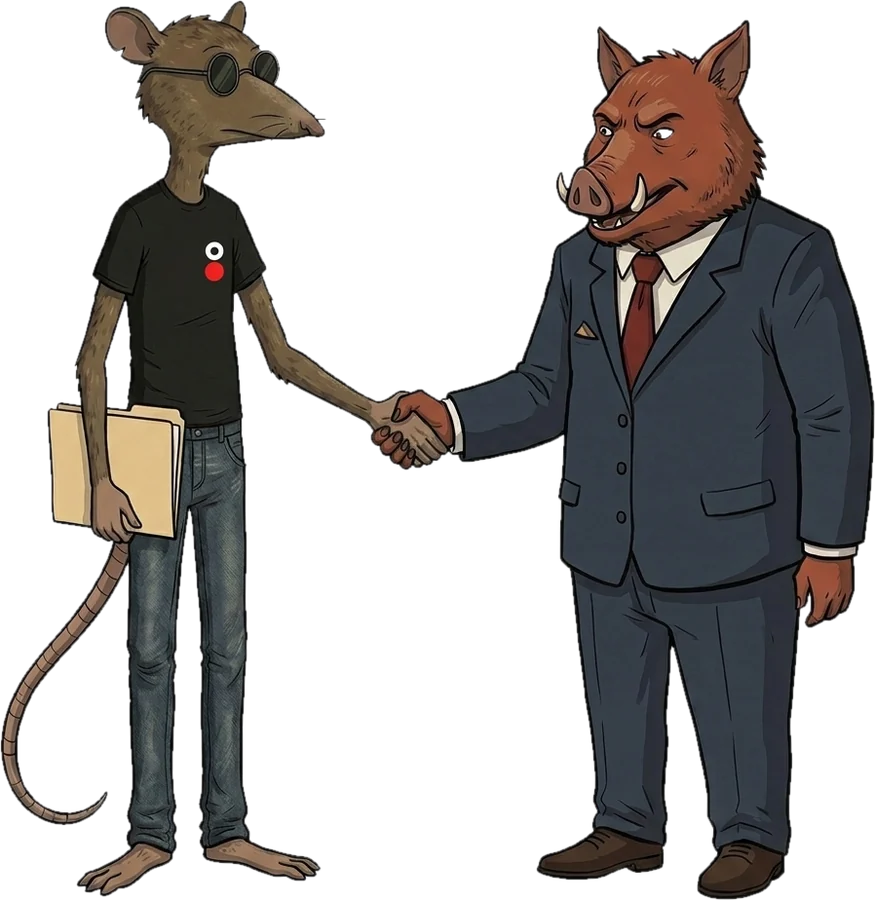
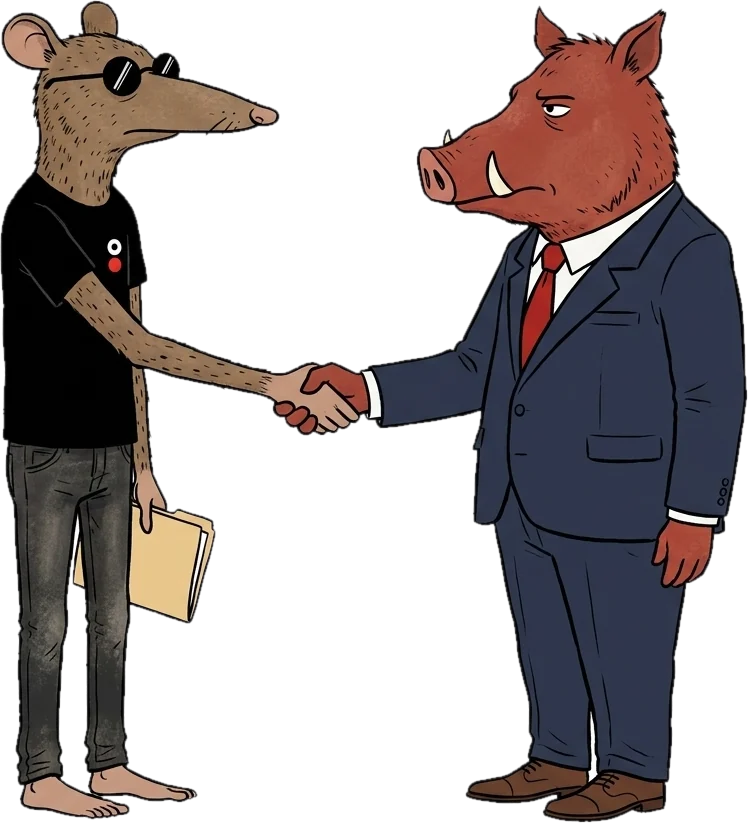
Revisión en todos los dispositivos: sin superposiciones (320–1920 px), Espid señala el botón, jabalí con megáfono, apretón de manos derecha con derecha, fondo rojo sin blend

diff --git a/index.html b/index.html
@@ -93,7 +93,7 @@ section{position:relative}
 .wa-flot:hover::after{opacity:1;transform:none}
 
 /* ---------- 1. Portada ---------- */
-.hero{background:url(assets/brand/papel.jpg) 0 0/720px,var(--rojo);background-blend-mode:multiply;color:var(--crema);padding:110px 0 0;overflow:hidden}
+.hero{background-color:var(--rojo);background-image:url(assets/brand/rojo-papel.jpg);background-size:720px;color:var(--crema);padding:110px 0 0;overflow:hidden}
 .hero .kicker{opacity:.85}
 /* Titular en recortes tipo periódico */
 .titular{position:relative;display:grid;justify-items:start;margin:26px 0 0;max-width:820px;font-weight:400}
@@ -106,24 +106,24 @@ section{position:relative}
   linear-gradient(#F3EEE4,#E9E2D5);
   color:var(--negro);padding:.34em .32em .2em;clip-path:polygon(0.0% 2.3%,2.8% 1.1%,5.6% 4.6%,8.3% 0.5%,11.1% 3.8%,13.9% 2.6%,16.7% 0.4%,19.4% 3.6%,22.2% 0.3%,25.0% 3.0%,27.8% 0.5%,30.6% 0.6%,33.3% 3.0%,36.1% 5.8%,38.9% 0.9%,41.7% 1.6%,44.4% 4.4%,47.2% 6.6%,50.0% 4.0%,52.8% 2.8%,55.6% 6.8%,58.3% 0.3%,61.1% 6.0%,63.9% 2.0%,66.7% 1.0%,69.4% 0.8%,72.2% 2.2%,75.0% 5.7%,77.8% 1.3%,80.6% 4.1%,83.3% 4.5%,86.1% 2.6%,88.9% 3.8%,91.7% 0.4%,94.4% 0.4%,97.2% 1.4%,100.0% 4.8%,100.0% 97.0%,97.2% 97.8%,94.4% 95.9%,91.7% 96.8%,88.9% 97.9%,86.1% 94.4%,83.3% 95.1%,80.6% 98.3%,77.8% 96.0%,75.0% 96.3%,72.2% 93.9%,69.4% 94.9%,66.7% 98.0%,63.9% 93.1%,61.1% 99.2%,58.3% 97.1%,55.6% 94.7%,52.8% 98.9%,50.0% 96.6%,47.2% 99.7%,44.4% 95.3%,41.7% 94.6%,38.9% 96.0%,36.1% 93.9%,33.3% 97.8%,30.6% 95.1%,27.8% 95.8%,25.0% 95.9%,22.2% 96.8%,19.4% 94.1%,16.7% 93.4%,13.9% 96.7%,11.1% 95.4%,8.3% 99.6%,5.6% 95.1%,2.8% 95.5%,0.0% 93.0%)}
 .t-dep small{display:flex;justify-content:space-between;gap:10px;font-family:var(--clash);font-weight:600;font-size:clamp(9px,1.2vw,12px);letter-spacing:.16em;text-transform:uppercase;border-bottom:2px solid var(--negro);padding:0 .2em 4px;margin-bottom:.12em;opacity:.8}
-.t-dep b{display:block;font-family:var(--epic);font-weight:800;text-transform:uppercase;font-size:clamp(46px,12.4vw,134px);line-height:.86;letter-spacing:-.01em}
+.t-dep b{display:block;font-family:var(--epic);font-weight:800;text-transform:uppercase;font-size:clamp(34px,12.2vw,134px);line-height:.86;letter-spacing:-.01em}
 .titular>.t-a{--rot:10deg;text-align:center;z-index:4;margin:6px 0 -12px 40%;width:var(--s);height:var(--s);--s:clamp(54px,8vw,84px);border-radius:50%;background:var(--crema);box-shadow:inset 0 0 0 3px var(--negro);display:flex;align-items:center;justify-content:center;overflow:hidden}
 .t-a b{display:block;font-family:var(--clash);font-weight:700;color:var(--rojo);font-size:calc(var(--s)*.56);line-height:1;transform:translateY(-.08em)}
 .t-of{--rot:1.8deg;z-index:2;margin-left:clamp(18px,6vw,90px)}
-.t-of>i{display:block;font-style:normal;background:var(--negro);color:var(--crema);font-family:var(--clash);font-weight:700;font-size:clamp(46px,12vw,128px);line-height:1;letter-spacing:-.05em;padding:.04em .28em .16em;clip-path:polygon(0 4%,99% 0,100% 96%,1.5% 100%)}
+.t-of>i{display:block;font-style:normal;background:var(--negro);color:var(--crema);font-family:var(--clash);font-weight:700;font-size:clamp(40px,12vw,128px);line-height:1;letter-spacing:-.05em;padding:.04em .28em .16em;clip-path:polygon(0 4%,99% 0,100% 96%,1.5% 100%)}
 .t-com{--rot:-1.6deg;margin:-6px 0 0 -4px}
-.t-com>i{display:block;font-style:normal;background:var(--crema);color:var(--rojo);font-family:var(--epic);font-weight:800;text-transform:uppercase;font-size:clamp(40px,11vw,120px);line-height:.9;padding:.14em .26em .06em;clip-path:polygon(1% 0,100% 6%,98.5% 100%,0 93%)}
+.t-com>i{display:block;font-style:normal;background:var(--crema);color:var(--rojo);font-family:var(--epic);font-weight:800;text-transform:uppercase;font-size:clamp(30px,10.4vw,120px);line-height:.9;padding:.14em .26em .06em;clip-path:polygon(1% 0,100% 6%,98.5% 100%,0 93%)}
 .t-com::after{z-index:2;content:"";position:absolute;right:-14px;top:-12px;width:clamp(56px,9vw,96px);height:22px;background:rgba(255,248,230,.6);transform:rotate(28deg);box-shadow:0 1px 2px rgba(0,0,0,.08)}
-.caja-wrap{position:relative}
+.caja-wrap{position:relative;--ew:150px;--er:6px}
 @keyframes sello{0%{opacity:0;transform:scale(1.5) rotate(-9deg)}100%{opacity:1;transform:scale(1) rotate(-9deg)}}
-.hero .sello{position:absolute;right:-14px;bottom:-34px;z-index:5;transform:rotate(-9deg);animation:sello .55s cubic-bezier(.2,1.6,.4,1) 1s both;font-size:clamp(14px,1.6vw,18px);--rot:-9deg;z-index:2}
+.hero .sello{position:absolute;left:-14px;top:-46px;z-index:5;transform:rotate(-9deg);animation:sello .55s cubic-bezier(.2,1.6,.4,1) 1s both;font-size:clamp(14px,1.6vw,18px);--rot:-9deg;z-index:2}
 .hero-pie{position:relative;margin-top:196px;padding-bottom:70px;max-width:620px}
 .hero-caja{position:relative;background:var(--crema);color:var(--negro);padding:30px 26px 28px;max-width:620px;clip-path:polygon(0 3%,99% 0,100% 97%,1% 100%)}
 .hero-caja p{font-size:clamp(18px,2.2vw,22px);line-height:1.35;letter-spacing:-.02em}
 .hero-caja p b{color:var(--rojo)}
-.hero-caja .reserva{float:right;width:112px;height:100px;margin:-30px -26px 0 0}
+.hero-caja .reserva{float:right;width:calc(var(--ew)*.70 + var(--er) - 18px);height:calc(var(--ew)*.78 - 22px)}
 .hero-caja .acciones{display:flex;flex-wrap:wrap;gap:12px;margin-top:22px}
-.hero .pj.espid{width:150px;right:6px;top:-172px;z-index:3}
+.hero .pj.espid{width:var(--ew);right:var(--er);top:calc(var(--ew)*-1.169);z-index:3}
 .hero .flechas{position:absolute;right:var(--gutter);bottom:30px;font-family:var(--epic);font-size:34px;letter-spacing:-.15em;opacity:.9;animation:bote 1.6s infinite}
 @keyframes bote{50%{transform:translateY(8px)}}
 .flot{animation:flot 4s ease-in-out infinite}
@@ -132,14 +132,14 @@ section{position:relative}
 /* ---------- 2. Traducción ---------- */
 .intro{padding:90px 0 80px}
 .intro h2{font-size:clamp(44px,8vw,96px);color:var(--rojo)}
-.intro .elipse{font-size:clamp(26px,4.4vw,52px);margin:10px 0 0 -6px;--rot:-4deg}
+.intro .elipse{font-size:clamp(26px,4.4vw,52px);margin:22px 0 0 -6px;--rot:-4deg}
 .intro .cols{display:grid;gap:28px;margin-top:44px}
-.escena{position:relative;height:430px;margin-top:20px}
-.escena .pj.oso{width:min(46%,270px);left:0;bottom:0}
-.escena .pj.jab{width:min(36%,210px);right:0;bottom:0}
-.escena .globo{position:absolute}
-.escena .g1{left:0;top:150px;max-width:180px}
-.escena .g2{right:0;top:40px;max-width:200px}
+.escena{position:relative;display:flex;justify-content:space-between;align-items:flex-end;gap:10px;margin-top:20px;padding-bottom:3px}
+.actor{display:flex;flex-direction:column;align-items:center;gap:24px;min-width:0}
+.actor img{width:auto;max-width:100%;filter:var(--pegado)}
+.actor.a1 img{height:clamp(150px,34vw,270px)}
+.actor.a2 img{height:clamp(210px,48vw,380px)}
+.actor .globo{max-width:200px}
 .escena .suelo{position:absolute;left:0;right:0;bottom:0;height:3px;background:var(--tinta);border-radius:3px;opacity:.85}
 .cita{font-family:var(--epic);font-weight:800;text-transform:uppercase;font-size:clamp(28px,4vw,44px);line-height:.98;color:var(--negro)}
 .cita em{font-style:normal;color:var(--rojo)}
@@ -178,9 +178,15 @@ section{position:relative}
 .sino{margin-top:34px;max-width:700px}
 .sino .box{font-family:var(--epic);font-weight:800;text-transform:uppercase;font-size:clamp(22px,3.2vw,34px);line-height:1}
 .sino p{margin-top:14px}
-.problema .zona{position:relative;height:300px;margin-top:20px}
-.problema .pj.oso-duerme{width:min(64%,320px);right:0;bottom:0}
-.zzz{position:absolute;right:16px;bottom:min(62vw,270px);font-family:var(--epic);color:var(--rojo);font-size:30px}
+.grito-escena{position:relative;display:flex;flex-wrap:wrap;justify-content:space-between;align-items:flex-end;gap:18px 10px;margin-top:56px}
+.grito{flex-basis:100%;order:-1;display:flex;justify-content:center}
+.grito .box{position:relative;font-family:var(--epic);font-weight:800;text-transform:uppercase;font-size:clamp(22px,3.2vw,40px);line-height:1;text-align:center}
+.grito .ondas{font-family:var(--epic);color:var(--rojo);font-size:clamp(22px,3vw,36px);letter-spacing:-.1em;margin-right:6px;align-self:center;animation:onda 1s steps(2) infinite}
+@keyframes onda{50%{opacity:.25}}
+.g-boar img{height:clamp(190px,36vw,400px);width:auto;max-width:none;filter:var(--pegado)}
+.g-sloth{position:relative}
+.g-sloth img{height:clamp(130px,25vw,290px);width:auto;max-width:none;filter:var(--pegado)}
+.zzz{position:absolute;left:58%;top:-46px;z-index:2;font-family:var(--epic);color:var(--rojo);font-size:30px}
 .zzz span{display:inline-block;animation:zz 2.4s infinite ease-in-out;opacity:0}
 .zzz span:nth-child(2){animation-delay:.6s;font-size:.8em}.zzz span:nth-child(3){animation-delay:1.2s;font-size:.6em}
 @keyframes zz{0%{opacity:0;transform:translate(0,10px)}30%{opacity:1}100%{opacity:0;transform:translate(-14px,-26px)}}
@@ -212,14 +218,15 @@ section{position:relative}
 .libro{padding:100px 0 100px}
 .libro h2{font-size:clamp(40px,7vw,84px)}
 .libro .grid{display:grid;gap:30px;margin-top:30px;align-items:end}
-.libro .ilus{position:relative;height:380px}
-.libro .pj.presenta{width:min(70%,280px);left:0;bottom:0}
+.libro .ilus{position:relative}
+.libro .pj.presenta{position:relative}
+.libro .pj.presenta img{height:clamp(260px,62vw,440px);width:auto}
 .honesto{background:var(--negro);color:var(--crema);padding:30px 26px;clip-path:polygon(0 0,99% 2%,100% 100%,1.5% 98%);font-size:clamp(19px,2.3vw,23px);line-height:1.42;letter-spacing:-.02em}
 .honesto b{color:var(--rojo-vivo)}
 .libro .premisa{margin-top:22px;max-width:620px}
 
 /* ---------- 7. Pedir vs negociar ---------- */
-.versus{padding:90px 0 100px;background:url(assets/brand/papel.jpg) 0 0/720px,var(--rojo);background-blend-mode:multiply;color:var(--crema)}
+.versus{padding:90px 0 100px;background-color:var(--rojo);background-image:url(assets/brand/rojo-papel.jpg);background-size:720px;color:var(--crema)}
 .versus h2{font-size:clamp(46px,9vw,112px)}
 .versus .lead{margin-top:16px;max-width:620px}
 .comp{position:relative;margin-top:40px;height:min(120vw,560px);overflow:hidden;clip-path:polygon(0 1%,100% 0,99.5% 100%,.5% 99%);user-select:none;touch-action:pan-y;--p:50%}
@@ -232,10 +239,10 @@ section{position:relative}
 .lado.negociar{align-items:flex-end;text-align:right}
 .lado.negociar img{right:-2%}
 .lado.pedir .epic{color:var(--negro)}
-.lado.pedir img{width:min(62%,360px)}
+.lado.pedir img{height:62%;width:auto;max-width:none}
 .lado.negociar{background:var(--negro);color:var(--crema);clip-path:inset(0 0 0 var(--p))}
 .lado.negociar .epic{color:var(--rojo-vivo)}
-.lado.negociar img{width:min(72%,440px)}
+.lado.negociar img{height:60%;width:auto;max-width:none}
 .manija{position:absolute;top:0;bottom:0;left:var(--p);width:4px;margin-left:-2px;background:var(--rojo);z-index:3}
 .manija span{position:absolute;top:50%;left:50%;width:58px;height:58px;margin:-29px 0 0 -29px;border-radius:50%;background:var(--rojo);color:var(--crema);display:grid;place-items:center;font-family:var(--epic);font-size:22px;letter-spacing:-.1em;box-shadow:0 4px 0 rgba(0,0,0,.25)}
 .comp input{position:absolute;inset:0;width:100%;height:100%;opacity:0;cursor:ew-resize;z-index:4;margin:0}
@@ -275,21 +282,22 @@ section{position:relative}
 .capas h2{font-size:clamp(40px,7vw,84px)}
 .capas .lead{max-width:640px;margin-top:16px}
 .capas .tablero{display:grid;gap:26px;margin-top:40px;align-items:center}
+.capas .tablero>*{min-width:0}
 .diana{position:relative;width:min(88vw,460px);aspect-ratio:1;margin:0 auto}
 .diana svg{width:100%;height:100%;overflow:visible}
 .diana circle{cursor:pointer;transition:fill .3s,transform .4s cubic-bezier(.2,1.6,.4,1);transform-origin:50% 50%;transform-box:view-box}
 .diana text{font-family:var(--clash);font-weight:600;font-size:13px;letter-spacing:.08em;pointer-events:none;text-transform:uppercase}
-.capas .pj.lupa{width:min(42vw,230px);left:-8%;bottom:-10%;z-index:2}
+.capas .pj.lupa{width:min(30vw,180px);left:-4%;bottom:0;z-index:2}
 .opciones{display:grid;grid-template-columns:1fr 1fr;gap:8px}
-.op{font-family:var(--epic);font-weight:800;text-transform:uppercase;font-size:clamp(16px,2.2vw,22px);padding:14px 12px 11px;background:var(--papel);color:var(--negro);border:2px solid var(--negro);cursor:pointer;text-align:left;transition:.2s}
+.op{font-family:var(--epic);font-weight:800;text-transform:uppercase;font-size:clamp(13px,2.2vw,22px);padding:13px 10px 10px;min-width:0;overflow-wrap:anywhere;background:var(--papel);color:var(--negro);border:2px solid var(--negro);cursor:pointer;text-align:left;transition:.2s}
 .op.on{background:var(--rojo);color:var(--crema);border-color:var(--rojo)}
 .capa-txt{margin-top:16px;background:var(--negro);color:var(--crema);padding:22px 22px;min-height:150px;clip-path:polygon(0 2%,100% 0,99.5% 100%,.5% 98%)}
 .capa-txt .epic{font-size:28px;color:var(--rojo-vivo)}
 .capa-txt p{margin-top:8px;font-size:18px;line-height:1.4;letter-spacing:-.02em}
 
 /* ---------- 11. Pregunta incómoda ---------- */
-.pregunta{padding:250px 0 110px;overflow:hidden;border-top:10px solid var(--negro)}
-.pregunta .pj.colgado{width:min(46vw,250px);right:12%;top:-22px;transform-origin:50% 0;animation:mece 3.6s ease-in-out infinite}
+.pregunta{--colg:190px;padding:calc(var(--colg)*1.37 + 20px) 0 110px;overflow:hidden;border-top:10px solid var(--negro)}
+.pregunta .pj.colgado{width:var(--colg);right:10%;top:-22px;transform-origin:50% 0;animation:mece 3.6s ease-in-out infinite}
 @keyframes mece{0%,100%{transform:rotate(3deg)}50%{transform:rotate(-3deg)}}
 .pregunta .barra{position:absolute;top:0;left:0;right:0;height:10px;background:var(--negro)}
 .pregunta .kicker{color:var(--rojo-vivo)}
@@ -323,10 +331,13 @@ section{position:relative}
 .ruta li::before{content:counter(r);min-width:22px;font-family:var(--epic);font-size:34px;color:var(--rojo-vivo);line-height:1}
 .ruta b{display:block;font-family:var(--epic);font-weight:800;text-transform:uppercase;font-size:22px;line-height:1;color:var(--crema)}
 .ruta span{font-size:15px;opacity:.7}
-.cta-zona{position:relative;margin-top:50px;padding:0 0 260px}
-.cta-zona .btn{font-size:clamp(20px,3vw,28px);padding:22px 28px 19px}
+.cta-zona{--ph:210px;position:relative;margin-top:44px;padding-bottom:calc(var(--ph)*.478 - 6px)}
+.cta-btn{position:relative;display:inline-block;max-width:calc(100% - var(--ph)*.5 - 14px)}
+.cta-zona .apunta{position:absolute;left:calc(100% + 6px);top:calc(50% - var(--ph)*.522);height:var(--ph);pointer-events:none}
+.cta-zona .apunta img{height:100%;width:auto;max-width:none;transform:scaleX(-1);filter:var(--pegado)}
+.cta-zona .sub{max-width:calc(100% - var(--ph)*.5 - 14px)}
+.cta-zona .btn{font-size:clamp(18px,3vw,28px);padding:20px 22px 17px;max-width:100%;line-height:1.05}
 .cta-zona .sub{margin-top:12px;font-size:15px;opacity:.6}
-.cierre .pj.apunta{width:min(46vw,250px);right:var(--gutter);bottom:0}
 
 footer{background:var(--rojo);color:var(--crema);padding:40px var(--gutter) 90px;text-align:center}
 footer img{height:34px;width:auto;margin:0 auto}
@@ -343,35 +354,33 @@ footer small{display:block;margin-top:14px;font-size:12px;opacity:.7}
   .t-of>i{font-size:clamp(50px,5.4vw,80px)}
   .t-com>i{font-size:clamp(44px,4.8vw,70px)}
   .hero-pie{grid-column:2;margin-top:0;padding-top:250px;padding-bottom:70px}
-  .hero .pj.espid{width:190px;top:-218px;right:22px}
-  .hero-caja .reserva{width:136px;height:128px}
+  .caja-wrap{--ew:190px;--er:22px}
   .intro .cols{grid-template-columns:1.05fr 1fr;align-items:end;gap:50px}
-  .escena{height:520px;margin:0}
+  .escena{margin:0}
   .traductor{padding:34px 34px 30px}
   .tr-fila{grid-template-columns:1fr 1fr;gap:28px}
   .tr-b{max-height:none;opacity:.12}
   .traductor.on .tr-b{opacity:1}
   .puntos{grid-template-columns:repeat(4,1fr);max-width:none;width:62%}
-  .mundo .pj.oso-tirado{left:auto;right:var(--gutter);bottom:120px;width:420px}
-  .problema .wrap{display:grid;grid-template-columns:1.2fr .8fr;gap:30px}
-  .problema .zona{height:auto;min-height:420px}
-  .problema .pj.oso-duerme{width:340px}
+  .mundo .pj.oso-tirado{left:auto;right:var(--gutter);bottom:150px;width:400px}
+  .mundo .nota{bottom:80px}
+  .grito-escena{flex-wrap:nowrap}
+  .grito{flex:1;flex-basis:auto;order:0;align-self:flex-start;margin-top:3%;justify-content:flex-start}
   .invierten{padding-bottom:110px}
   .invierten .pj.jab{width:280px}
   .invierten .globo{right:calc(max(var(--gutter),calc(50% - 520px)) + 250px);bottom:560px}
   .libro .grid{grid-template-columns:.8fr 1.2fr}
-  .libro .ilus{height:460px}
+  .libro .ilus{align-self:end}
   .comp{height:560px}
-  .lado.pedir img{width:330px;left:4%}
-  .lado.negociar img{width:420px;right:3%}
+  .lado.pedir img{left:4%}
+  .lado.negociar img{right:4%}
   .cap .num{width:460px}
   .cap .num .epic{font-size:260px}
   .cap .pj.sube{width:200px;left:-17%}
   .juego{padding:30px 30px 30px}
   .clones{grid-template-columns:repeat(8,1fr)}
   .capas .tablero{grid-template-columns:1fr 1fr;gap:50px}
-  .cta-zona{padding-bottom:330px}
-  .cierre .pj.apunta{width:300px;right:max(var(--gutter),calc(50% - 480px))}
+  .cta-zona{--ph:340px}
 }
 @media (max-width:420px){
   body{font-size:17px}
@@ -398,7 +407,7 @@ footer small{display:block;margin-top:14px;font-size:12px;opacity:.7}
       <span class="t-com pop d4" aria-hidden="true"><i>Comercial</i></span>
     </h1>
     <div class="hero-pie"><div class="caja-wrap">
-      <div class="pj espid"><img class="flot" src="assets/img/espid_sit.webp" alt="" width="462" height="900"></div>
+      <div class="pj espid"><img class="flot" src="assets/img/espid_sit.webp?v=3" alt="" width="462" height="900"></div>
       <div class="hero-caja">
         <div class="reserva" aria-hidden="true"></div>
         <p>Guía de transformación para convertir un <b>deportista</b> en un <b>proyecto deportivo atractivo</b> para marcas auspiciantes.</p>
@@ -425,10 +434,8 @@ footer small{display:block;margin-top:14px;font-size:12px;opacity:.7}
         <p class="cita rv" style="margin-top:28px">Esta creencia no nace de la mala intención.<br><em>Nace de una visión incompleta.</em></p>
       </div>
       <div class="escena" aria-hidden="true">
-        <div class="globo crema g1 pop d1" style="--rot:-3deg">¡Gané el oro!<br><b style="color:var(--rojo)">¿Me auspicias?</b></div>
-        <div class="globo g2 der pop d3" style="--rot:3deg">Ajá…<br>¿Y eso qué hace por <b>mi marca?</b></div>
-        <div class="pj oso rv d1"><img src="assets/img/sloth_medal.webp" alt="" width="813" height="900"></div>
-        <div class="pj jab rv d2"><img src="assets/img/boar_confused.webp" alt="" width="431" height="900"></div>
+        <div class="actor a1"><div class="globo crema pop d1" style="--rot:-3deg">¡Gané el oro!<br><b style="color:var(--rojo)">¿Me auspicias?</b></div><img class="rv d1" src="assets/img/sloth_medal.webp?v=3" alt="" width="813" height="900"></div>
+        <div class="actor a2"><div class="globo der pop d3" style="--rot:3deg">Ajá…<br>¿Y eso qué hace por <b>mi marca?</b></div><img class="rv d2" src="assets/img/boar_confused.webp?v=3" alt="" width="431" height="900"></div>
         <div class="suelo"></div>
       </div>
     </div>
@@ -462,7 +469,7 @@ footer small{display:block;margin-top:14px;font-size:12px;opacity:.7}
       <div class="punto tu pop d4">Tú</div>
     </div>
   </div>
-  <div class="pj oso-tirado rv d3"><img src="assets/img/sloth_lying.webp" alt="" width="900" height="182"></div>
+  <div class="pj oso-tirado rv d3"><img src="assets/img/sloth_lying.webp?v=3" alt="" width="900" height="182"></div>
   <div class="nota">El talento, esperando que la oportunidad llegue sola.</div>
 </section>
 
@@ -482,9 +489,10 @@ footer small{display:block;margin-top:14px;font-size:12px;opacity:.7}
         <p class="lead">a un lenguaje que una empresa pueda <b>entender, evaluar y justificar internamente.</b></p>
       </div>
     </div>
-    <div class="zona" aria-hidden="true">
-      <div class="zzz"><span>Z</span><span>Z</span><span>Z</span></div>
-      <div class="pj oso-duerme rv"><img src="assets/img/sloth_sleep.webp" alt="" width="862" height="799"></div>
+    <div class="grito-escena" aria-hidden="true">
+      <div class="g-boar rv"><img src="assets/img/boar_megafono.webp?v=3" alt="" width="587" height="900"></div>
+      <div class="grito pop d2" style="--rot:-3deg"><span class="ondas">)))</span><span class="box">¡Patrocinio<br>disponible!</span></div>
+      <div class="g-sloth rv d1"><div class="zzz"><span>Z</span><span>Z</span><span>Z</span></div><img src="assets/img/sloth_sleep.webp?v=3" alt="" width="862" height="799"></div>
     </div>
   </div>
 </section>
@@ -511,7 +519,7 @@ footer small{display:block;margin-top:14px;font-size:12px;opacity:.7}
     </div>
   </div>
   <div class="globo der pop d2" style="--rot:-3deg">A ver…<br><b>convénceme.</b></div>
-  <div class="pj jab rv d3"><img src="assets/img/boar_crossed.webp" alt="" width="376" height="900"></div>
+  <div class="pj jab rv d3"><img src="assets/img/boar_crossed.webp?v=3" alt="" width="376" height="900"></div>
 </section>
 
 <!-- 6. DE QUÉ SE TRATA -->
@@ -522,7 +530,7 @@ footer small{display:block;margin-top:14px;font-size:12px;opacity:.7}
     <p class="lead premisa rv">Esa palabra parte de una premisa equivocada: que el deportista es un <b>producto vacío</b> que debe maquillarse para agradar.</p>
     <div class="grid">
       <div class="ilus" aria-hidden="true">
-        <div class="pj presenta rv"><img src="assets/img/espid_present.webp" alt="" width="457" height="900"></div>
+        <div class="pj presenta rv"><img src="assets/img/espid_present.webp?v=3" alt="" width="457" height="900"></div>
       </div>
       <div class="honesto rv d1">
         <div class="kicker" style="color:var(--rojo-vivo);margin-bottom:10px">Algo más profundo y más honesto</div>
@@ -542,12 +550,12 @@ footer small{display:block;margin-top:14px;font-size:12px;opacity:.7}
       <div class="lado pedir">
         <div class="epic">Pedir</div>
         <div class="dice">“¡Necesito auspicio para mi sueño!”</div>
-        <img src="assets/img/sloth_beg.webp" alt="Perezoso deportista de rodillas pidiendo auspicio con su currículum" width="849" height="900">
+        <img src="assets/img/sloth_beg.webp?v=3" alt="Perezoso deportista de rodillas pidiendo auspicio con su currículum" width="849" height="900">
       </div>
       <div class="lado negociar">
         <div class="epic">Negociar</div>
         <div class="dice">“Te ofrezco una solución para tu negocio.”</div>
-        <img src="assets/img/handshake.webp" alt="Espid cerrando un trato con el ejecutivo de la marca" width="868" height="900">
+        <img src="assets/img/handshake.webp?v=3" alt="Espid cerrando un trato con el ejecutivo de la marca" width="748" height="823">
       </div>
       <div class="manija"><span>‹›</span></div>
       <input type="range" min="0" max="100" value="50" id="comp-r" aria-label="Comparar pedir y negociar">
@@ -565,7 +573,7 @@ footer small{display:block;margin-top:14px;font-size:12px;opacity:.7}
   <div class="wrap">
     <div class="num pop">
       <span class="epic">1</span>
-      <div class="pj sube"><img src="assets/img/espid_climb.webp" alt="" width="604" height="900"></div>
+      <div class="pj sube"><img src="assets/img/espid_climb.webp?v=3" alt="" width="604" height="900"></div>
     </div>
     <div class="titulo">
       <div class="kicker rv">Capítulo 1</div>
@@ -615,7 +623,7 @@ footer small{display:block;margin-top:14px;font-size:12px;opacity:.7}
           <text x="200" y="76" text-anchor="middle" fill="#FFE7C9" opacity=".8">Temporales</text>
           <text x="200" y="28" text-anchor="middle" fill="#FFE7C9" opacity=".8">Constantes</text>
         </svg>
-        <div class="pj lupa"><img src="assets/img/boar_magnify.webp" alt="" width="710" height="900"></div>
+        <div class="pj lupa"><img src="assets/img/boar_magnify.webp?v=3" alt="" width="710" height="900"></div>
       </div>
       <div>
         <div class="opciones" id="opciones">
@@ -633,7 +641,7 @@ footer small{display:block;margin-top:14px;font-size:12px;opacity:.7}
 <!-- 11. LA PREGUNTA INCÓMODA -->
 <section class="pregunta oscuro">
   <div class="barra"></div>
-  <div class="pj colgado"><img src="assets/img/sloth_hang.webp" alt="" width="658" height="900"></div>
+  <div class="pj colgado"><img src="assets/img/sloth_hang.webp?v=3" alt="" width="658" height="900"></div>
   <div class="wrap">
     <div class="kicker rv">La pregunta incómoda</div>
     <h2 class="epic rv">¿Qué perdería una marca si <em>yo no existiera?</em></h2>
@@ -675,11 +683,13 @@ footer small{display:block;margin-top:14px;font-size:12px;opacity:.7}
       <li class="rv d2"><div><b>Incentivo tributario</b><span>Una inversión más segura y con respaldo.</span></div></li>
     </ol>
     <div class="cta-zona">
-      <a class="btn rojo rv" href="#" data-wa="cierre"><svg viewBox="0 0 24 24" fill="currentColor" aria-hidden="true"><path d="M12 2a10 10 0 0 0-8.6 15.1L2 22l5-1.3A10 10 0 1 0 12 2zm0 18.2c-1.5 0-3-.4-4.3-1.2l-.3-.2-3 .8.8-2.9-.2-.3A8.2 8.2 0 1 1 12 20.2zm4.5-6.1c-.2-.1-1.5-.7-1.7-.8s-.4-.1-.6.1-.7.8-.8 1-.3.2-.5.1a6.7 6.7 0 0 1-3.3-2.9c-.3-.4.3-.4.7-1.4.1-.2 0-.3 0-.4l-.8-1.8c-.2-.5-.4-.4-.6-.4h-.5a1 1 0 0 0-.7.3 3 3 0 0 0-.9 2.2 5.2 5.2 0 0 0 1.1 2.7 11.8 11.8 0 0 0 4.5 4c1.7.7 2.3.8 3.2.6.5-.1 1.5-.6 1.7-1.2s.2-1.1.2-1.2-.2-.2-.5-.3z"/></svg>Quiero mi oferta comercial</a>
+      <div class="cta-btn">
+        <a class="btn rojo rv" href="#" data-wa="cierre"><svg viewBox="0 0 24 24" fill="currentColor" aria-hidden="true"><path d="M12 2a10 10 0 0 0-8.6 15.1L2 22l5-1.3A10 10 0 1 0 12 2zm0 18.2c-1.5 0-3-.4-4.3-1.2l-.3-.2-3 .8.8-2.9-.2-.3A8.2 8.2 0 1 1 12 20.2zm4.5-6.1c-.2-.1-1.5-.7-1.7-.8s-.4-.1-.6.1-.7.8-.8 1-.3.2-.5.1a6.7 6.7 0 0 1-3.3-2.9c-.3-.4.3-.4.7-1.4.1-.2 0-.3 0-.4l-.8-1.8c-.2-.5-.4-.4-.6-.4h-.5a1 1 0 0 0-.7.3 3 3 0 0 0-.9 2.2 5.2 5.2 0 0 0 1.1 2.7 11.8 11.8 0 0 0 4.5 4c1.7.7 2.3.8 3.2.6.5-.1 1.5-.6 1.7-1.2s.2-1.1.2-1.2-.2-.2-.5-.3z"/></svg>Quiero mi oferta comercial</a>
+        <div class="apunta rv d2"><img src="assets/img/espid_point.webp?v=3" alt="" width="443" height="900"></div>
+      </div>
       <div class="sub rv">Escríbeme por WhatsApp y revisamos tu caso.</div>
     </div>
   </div>
-  <div class="pj apunta rv d2"><img src="assets/img/espid_point.webp" alt="" width="451" height="900"></div>
 </section>
 
 <footer>
@@ -752,7 +762,7 @@ footer small{display:block;margin-top:14px;font-size:12px;opacity:.7}
   for (var i=0;i<8;i++){
     var b = document.createElement('button'); b.className = 'clon'; b.type='button';
     b.setAttribute('aria-label','Deportista ' + (i+1));
-    b.innerHTML = '<img src="assets/img/sloth_copy.webp" alt="" loading="lazy" width="746" height="900">';
+    b.innerHTML = '<img src="assets/img/sloth_copy.webp?v=3" alt="" loading="lazy" width="746" height="900">';
     b.addEventListener('click', function(){
       if(this.classList.contains('x')) return;
       this.classList.add('x'); toques++;
